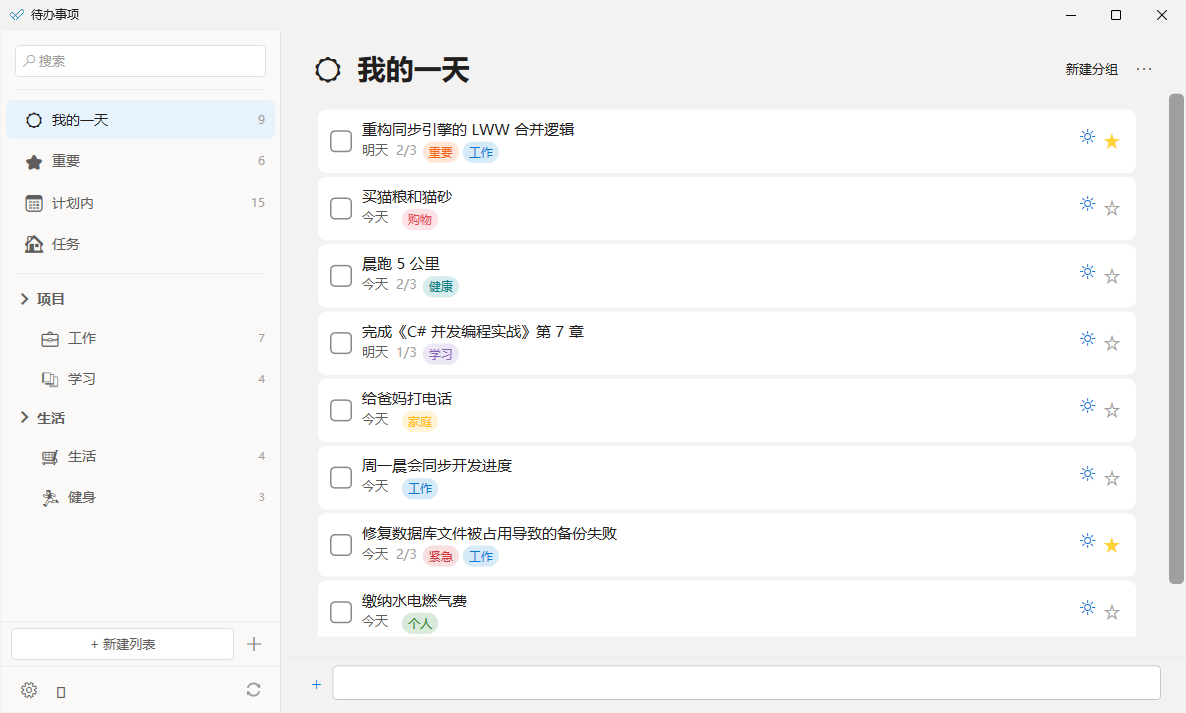
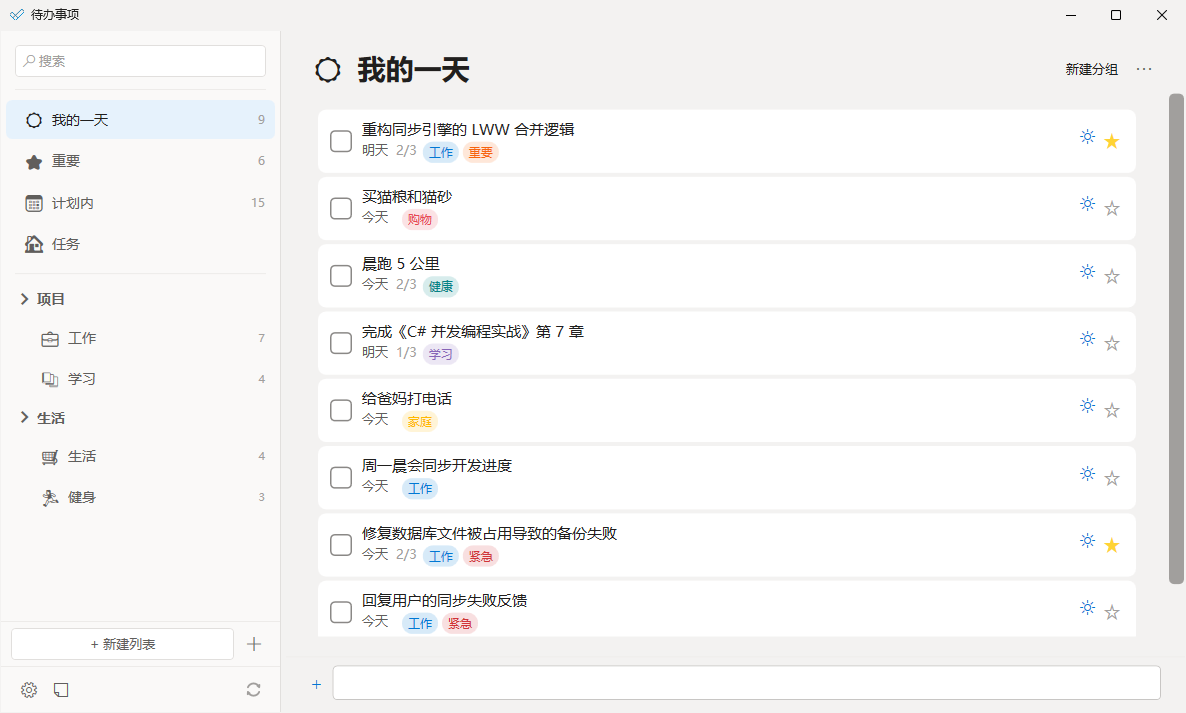
fix(ui): 便笺日期与标签同行、主窗便笺按钮改 QuickNote、数据库路径掩码
- 便笺任务行截止日期 chip 与标签 pill 同一行显示
- 主窗 footer 便笺按钮图标 E918(Page) → E70B(QuickNote),更直观
- 设置页数据库路径以 %LOCALAPPDATA%/%USERPROFILE% 显示,不再暴露
  系统用户名(README 截图同受益)
- 重新生成四张 README 截图

diff --git a/ToDo/StickyWindow.xaml b/ToDo/StickyWindow.xaml
@@ -95,42 +95,45 @@
                         <TextBlock Text="{Binding Title}" FontSize="13.5"
                                    Foreground="{DynamicResource TextPrimaryBrush}"
                                    TextTrimming="CharacterEllipsis"/>
-                        <!-- Due-date tinted chip -->
-                        <Grid Margin="0,3,0,0" HorizontalAlignment="Left"
-                              Visibility="{Binding DueDate, Converter={StaticResource NullToVis}}">
-                            <Border CornerRadius="4"
-                                    Background="{Binding DueDate, Converter={StaticResource DueDateToBrush}}"
-                                    Opacity="0.15"/>
-                            <TextBlock Text="{Binding DueDate, Converter={StaticResource DueDateToString}}"
-                                       FontSize="11" Margin="6,1"
-                                       Foreground="{Binding DueDate, Converter={StaticResource DueDateToBrush}}"/>
-                        </Grid>
-                        <!-- Tag pills (small): a compact colored row that reuses the
-                             TagIdsToTags converter; hidden by the StickyShowTags setting -->
-                        <ItemsControl Margin="0,3,0,0"
-                                      Visibility="{Binding DataContext.StickyShowTags,
-                                                          RelativeSource={RelativeSource AncestorType=Window},
-                                                          Converter={StaticResource BoolToVis}}">
-                            <ItemsControl.ItemsSource>
-                                <MultiBinding Converter="{StaticResource TagIdsToTags}">
-                                    <Binding Path="TagIds"/>
-                                    <Binding Path="DataContext.Tags"
-                                             RelativeSource="{RelativeSource AncestorType=Window}"/>
-                                </MultiBinding>
-                            </ItemsControl.ItemsSource>
-                            <ItemsControl.ItemsPanel>
-                                <ItemsPanelTemplate><WrapPanel/></ItemsPanelTemplate>
-                            </ItemsControl.ItemsPanel>
-                            <ItemsControl.ItemTemplate>
-                                <DataTemplate DataType="{x:Type models:Tag}">
-                                    <Border Padding="5,1" Margin="0,0,4,2" CornerRadius="8"
-                                            Background="{Binding Color, Converter={StaticResource StringToAlphaBrush}}">
-                                        <TextBlock Text="{Binding Name}" FontSize="10.5"
-                                                   Foreground="{Binding Color, Converter={StaticResource StringToBrush}}"/>
-                                    </Border>
-                                </DataTemplate>
-                            </ItemsControl.ItemTemplate>
-                        </ItemsControl>
+                        <!-- Due-date chip + tag pills share one row -->
+                        <StackPanel Orientation="Horizontal" Margin="0,3,0,0">
+                            <!-- Due-date tinted chip -->
+                            <Grid Margin="0,0,6,0" VerticalAlignment="Center"
+                                  Visibility="{Binding DueDate, Converter={StaticResource NullToVis}}">
+                                <Border CornerRadius="4"
+                                        Background="{Binding DueDate, Converter={StaticResource DueDateToBrush}}"
+                                        Opacity="0.15"/>
+                                <TextBlock Text="{Binding DueDate, Converter={StaticResource DueDateToString}}"
+                                           FontSize="11" Margin="6,1"
+                                           Foreground="{Binding DueDate, Converter={StaticResource DueDateToBrush}}"/>
+                            </Grid>
+                            <!-- Tag pills (small): a compact colored row that reuses the
+                                 TagIdsToTags converter; hidden by the StickyShowTags setting -->
+                            <ItemsControl VerticalAlignment="Center"
+                                          Visibility="{Binding DataContext.StickyShowTags,
+                                                              RelativeSource={RelativeSource AncestorType=Window},
+                                                              Converter={StaticResource BoolToVis}}">
+                                <ItemsControl.ItemsSource>
+                                    <MultiBinding Converter="{StaticResource TagIdsToTags}">
+                                        <Binding Path="TagIds"/>
+                                        <Binding Path="DataContext.Tags"
+                                                 RelativeSource="{RelativeSource AncestorType=Window}"/>
+                                    </MultiBinding>
+                                </ItemsControl.ItemsSource>
+                                <ItemsControl.ItemsPanel>
+                                    <ItemsPanelTemplate><WrapPanel/></ItemsPanelTemplate>
+                                </ItemsControl.ItemsPanel>
+                                <ItemsControl.ItemTemplate>
+                                    <DataTemplate DataType="{x:Type models:Tag}">
+                                        <Border Padding="5,1" Margin="0,0,4,2" CornerRadius="8"
+                                                Background="{Binding Color, Converter={StaticResource StringToAlphaBrush}}">
+                                            <TextBlock Text="{Binding Name}" FontSize="10.5"
+                                                       Foreground="{Binding Color, Converter={StaticResource StringToBrush}}"/>
+                                        </Border>
+                                    </DataTemplate>
+                                </ItemsControl.ItemTemplate>
+                            </ItemsControl>
+                        </StackPanel>
                     </StackPanel>
                 </Grid>
             </Border>

diff --git a/ToDo/MainWindow.xaml b/ToDo/MainWindow.xaml
@@ -410,7 +410,7 @@
                                     AutomationProperties.AutomationId="OpenSettings"
                                     AutomationProperties.Name="{x:Static services:Loc.Settings}"
                                     ToolTip="{x:Static services:Loc.Settings}"/>
-                            <Button Content="&#xE918;" FontFamily="Segoe MDL2 Assets"
+                            <Button Content="&#xE70B;" FontFamily="Segoe MDL2 Assets"
                                     Style="{StaticResource FluentSubtleButton}" FontSize="16"
                                     Width="28" Height="24" Padding="0" Margin="4,0,0,0"
                                     Click="StickyNote_Click"

diff --git a/ToDo/ViewModels/SettingsViewModel.cs b/ToDo/ViewModels/SettingsViewModel.cs
@@ -95,7 +95,22 @@ public sealed class AppearanceSection : SettingsSection
 /// <summary>数据：数据库路径、备份导出/恢复。</summary>
 public partial class DataSection : SettingsSection
 {
-    public string DbPath => App.Database?.StoragePath ?? SettingsService.Current.DbPath;
+    /// <summary>Display the DB path with the user-specific prefix replaced by its
+    /// environment-variable form (C:\Users\Alice\AppData\Local → %LOCALAPPDATA%),
+    /// so the path shown in the UI (and README screenshots) never leaks a username.
+    /// Display only — the change-dialog and storage always use the real path.</summary>
+    public string DbPath => MaskPath(App.Database?.StoragePath ?? SettingsService.Current.DbPath);
+
+    private static string MaskPath(string path)
+    {
+        var localAppData = Environment.GetFolderPath(Environment.SpecialFolder.LocalApplicationData);
+        if (localAppData.Length > 0 && path.StartsWith(localAppData, StringComparison.OrdinalIgnoreCase))
+            return "%LOCALAPPDATA%" + path.Substring(localAppData.Length);
+        var profile = Environment.GetFolderPath(Environment.SpecialFolder.UserProfile);
+        if (profile.Length > 0 && path.StartsWith(profile, StringComparison.OrdinalIgnoreCase))
+            return "%USERPROFILE%" + path.Substring(profile.Length);
+        return path;
+    }
 
     [RelayCommand]
     private void ChangeDbPath()

diff --git a/CHANGELOG.md b/CHANGELOG.md
@@ -14,6 +14,10 @@
 ### 修复
 - 主窗隐藏（托盘 / 便笺模式）时后台更新检查的对话框无可见 owner
 
+### 优化
+- 便笺任务行截止日期与标签同行显示；主窗口便笺按钮改为手写便笺图标（QuickNote）
+- 设置页数据库路径以 `%LOCALAPPDATA%` / `%USERPROFILE%` 形式显示，避免在界面与截图里暴露系统用户名
+
 ## [v1.1.2] - 2026-08-08
 
 ### 新增
